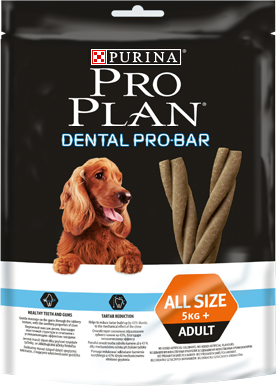
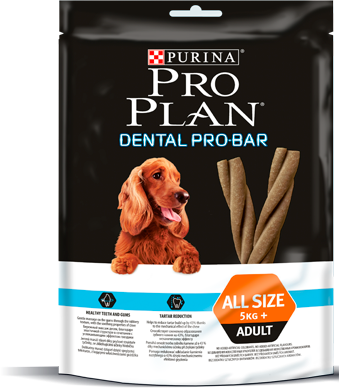
images

diff --git a/app/blocks/products/products.scss b/app/blocks/products/products.scss
@@ -146,16 +146,16 @@
       padding-left: 29px;
       
       .products__image {
-        width: 276px;
-        left: 6px;
-        margin-left: 54px;
+        width: 339px;
+        left: 14px;
+        margin-left: -10px;
         position: relative;
         z-index: 3;
         
         @include screen('desktop') {
-          width: 195px;
-          left: 8px;
-          margin-left: 24px;
+          width: 239px;
+          left: 11px;
+          margin-left: -21px;
         }
         
         @include screen('tablet-wide') {
@@ -192,14 +192,15 @@
       z-index: 2;
       
       .products__image {
-        width: 252px;
-        left: 16px;
-        margin-right: 75px;
+        width: 288px;
+        left: 14px;
+        margin-right: 42px;
         z-index: 2;
         
         @include screen('desktop') {
-          width: 179px;
-          margin-right: 46px;
+          width: 203px;
+          left: 11px;
+          margin-right: 21px;
         }
         
         @include screen('tablet-wide') {
